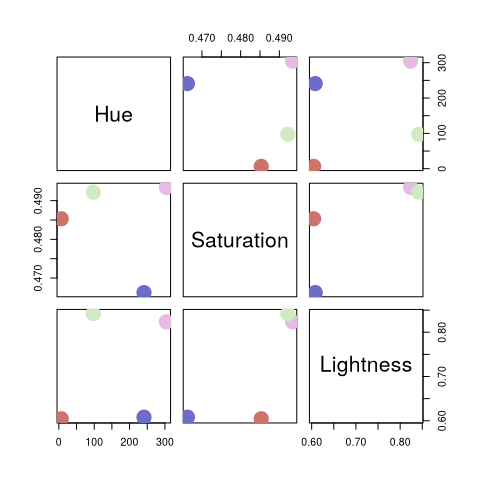
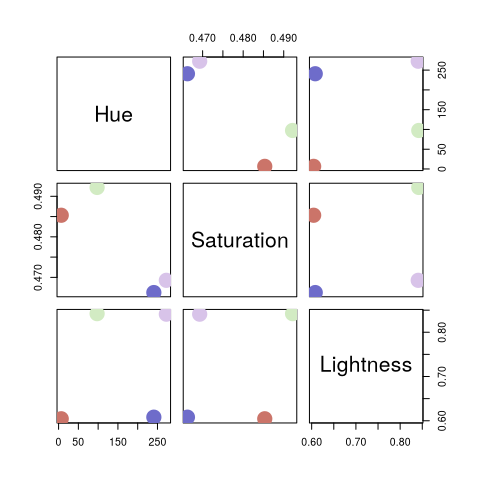
docs: update readme

diff --git a/README.md b/README.md
@@ -41,7 +41,7 @@ We can retrieve the generated colors in hex format
 
 ``` r
 pal$hex
-#> [1] "#cd836c" "#9468c9" "#81cbd4" "#c7ca71"
+#> [1] "#ce836d" "#9569ca" "#82cbd5" "#c8ca71"
 ```
 
 Alternatively, we can create a palette using one of the predefined color
@@ -53,8 +53,6 @@ pal2 <- qualpal(
   n = 4,
   cvd = c(deutan = 0.5)
 )
-#> The argument 'cvd_severity' is deprecated and will be
-#>       removed in a future version. Please use a named 'cvd' object instead.
 ```
 
 We can look at a distance matrix of the pairwise color differences from
@@ -62,10 +60,10 @@ the palette we have generated.
 
 ``` r
 pal2$de_DIN99d
-#>          #6d6cc9  #e8bbe5  #cb7469
-#> #e8bbe5 18.55197                  
-#> #cb7469 23.07448 17.62027         
-#> #d1eac2 27.38009 20.50007 23.00737
+#>          #6e6cca  #d8c3e9  #cb7469
+#> #d8c3e9 17.56447                  
+#> #cb7469 23.07448 19.38801         
+#> #d2ebc3 27.38009 19.24089 23.00737
 ```
 
 The palette may also be plotted with in a multidimensional scaling plot
